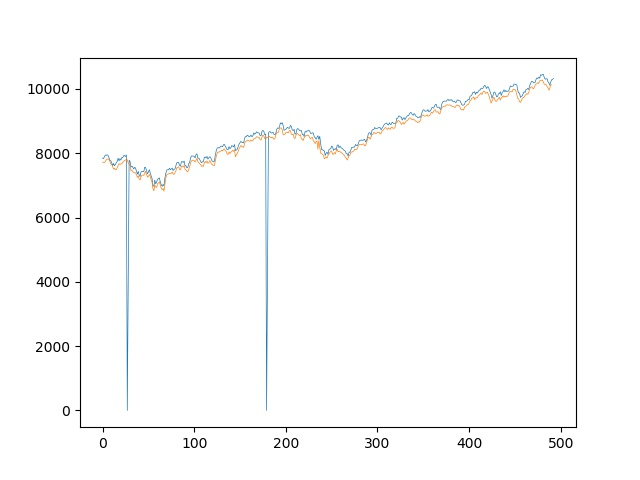
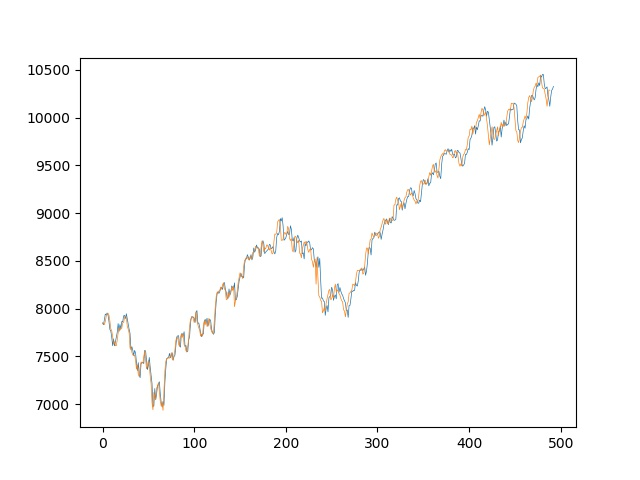
Second Commit

diff --git a/nifty50dnn.py b/nifty50dnn.py
@@ -13,9 +13,6 @@ cols = ['Date', 'Open', 'High', 'Low', 'Close', 'Future_Close']
 data = pd.read_csv('^NSEI.xslx', header=0, names=cols)
 data.dropna(axis=0, how='any')
 data = data.drop(['Date'], axis=1)
-data['Close'] = pd.to_numeric(data['Close'], errors='coerce').fillna(0).astype(float)
-data['Future_Close'] = pd.to_numeric(data['Future_Close'], errors='coerce').fillna(0).astype(float)
-data['Ratio'] = data['Future_Close']/data['Close']
 arr = data.copy()
 arr = arr.dropna(axis=0, how='any')
 train_start=0
@@ -34,6 +31,14 @@ for i in range(0,5):
     data_test=data_test.loc[data_test[i]!='null',:]
 data_train=data_train.astype(float)
 data_test=data_test.astype(float)
+data_train.columns = cols[1:] 
+data_test.columns = cols[1:]
+data_train['Close'] = pd.to_numeric(data_train['Close'], errors='coerce').fillna(0).astype(float)
+data_train['Future_Close'] = pd.to_numeric(data_train['Future_Close'], errors='coerce').fillna(0).astype(float)
+data_train['Ratio'] = data_train['Future_Close']/data_train['Close']
+data_test['Close'] = pd.to_numeric(data_test['Close'], errors='coerce').fillna(0).astype(float)
+data_test['Future_Close'] = pd.to_numeric(data_test['Future_Close'], errors='coerce').fillna(0).astype(float)
+data_test['Ratio'] = data_test['Future_Close']/data_test['Close']
 # scaler=MinMaxScaler()
 # scaler.fit(data_train)
 # data_train=scaler.transform(data_train)
